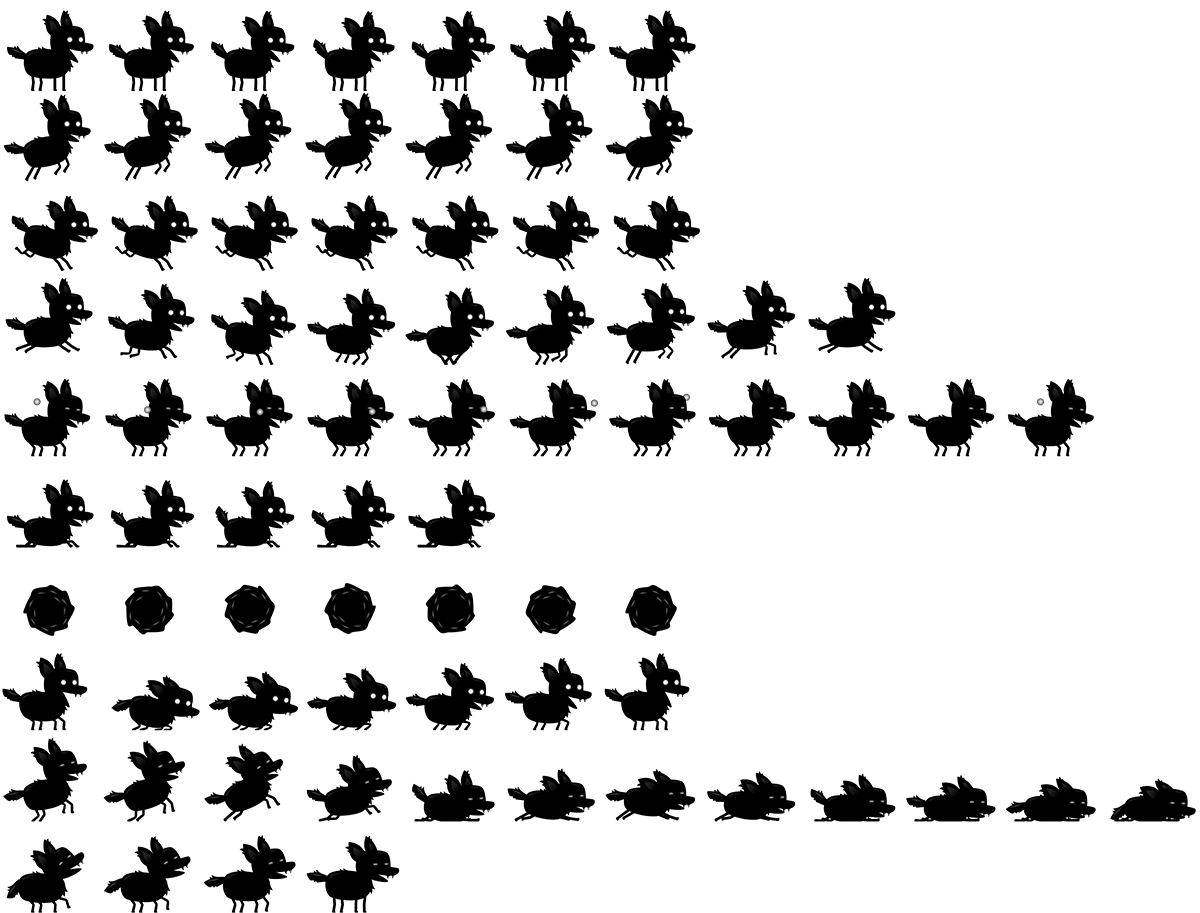
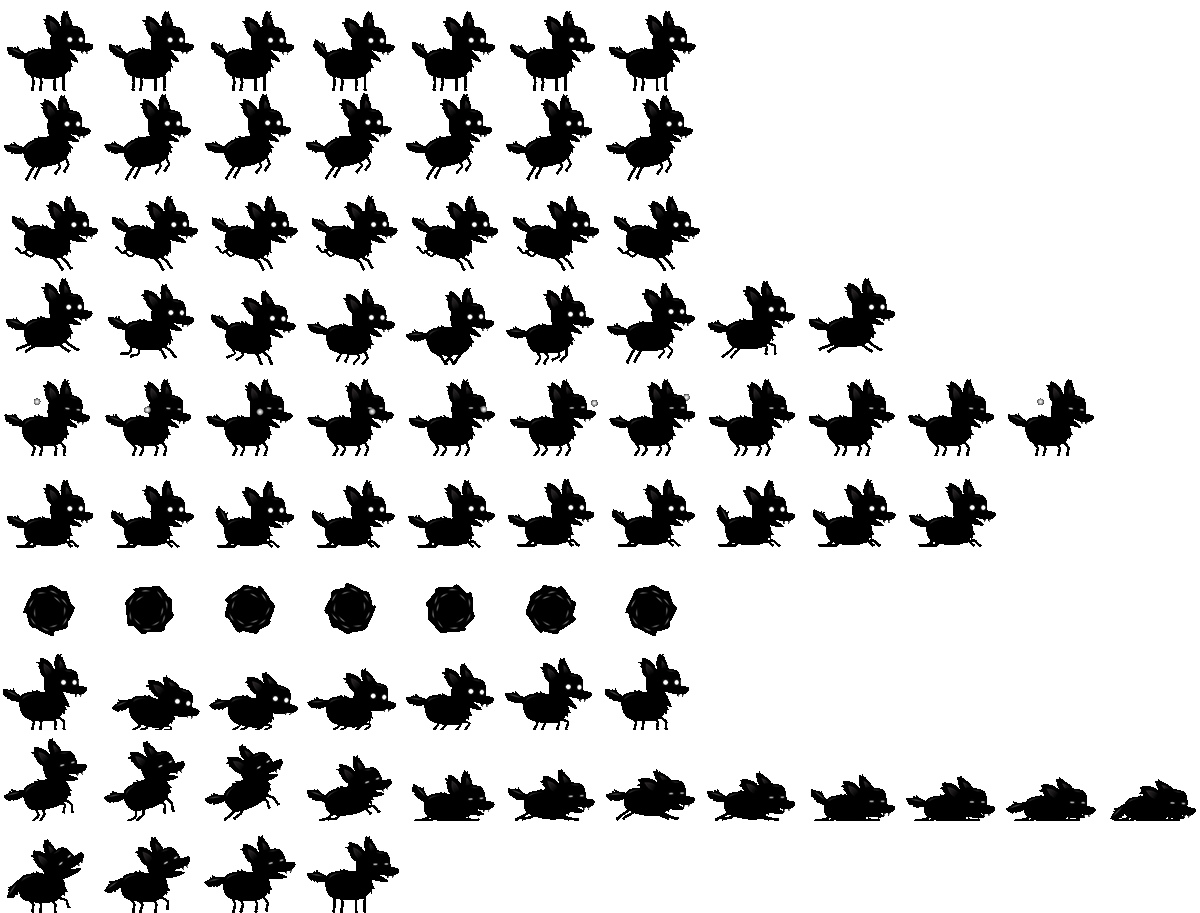
in playerStates.js set frameX to zero when player enters sitting state.

diff --git a/player.js b/player.js
@@ -14,7 +14,7 @@ export class Player {
     this.frameX = 0;
     this.frameY = 0;
     this.maxFrame = 5; //Maximum number of frames in a row.This will chnage depending of on the state of the player
-    this.fps = 20; //Frames per second
+    this.fps = 25; //Frames per second
     this.frameInterval = 1000 / this.fps;
     this.frameTimer = 0;
     this.speed = 0; //Property for how quickly the player is moveing

diff --git a/playerStates.js b/playerStates.js
@@ -23,7 +23,8 @@ export class Sitting extends State {
   }
   //Sets a player up when the player enters a state
   enter() {
-    this.player.maxFrame = 4;
+    this.player.frameX = 0;
+    this.player.maxFrame = 8;
     this.player.frameY = 5; //The sprite frameY where the player is sitting is 5
   }
   //Reacts to user inputs depending on the player state
